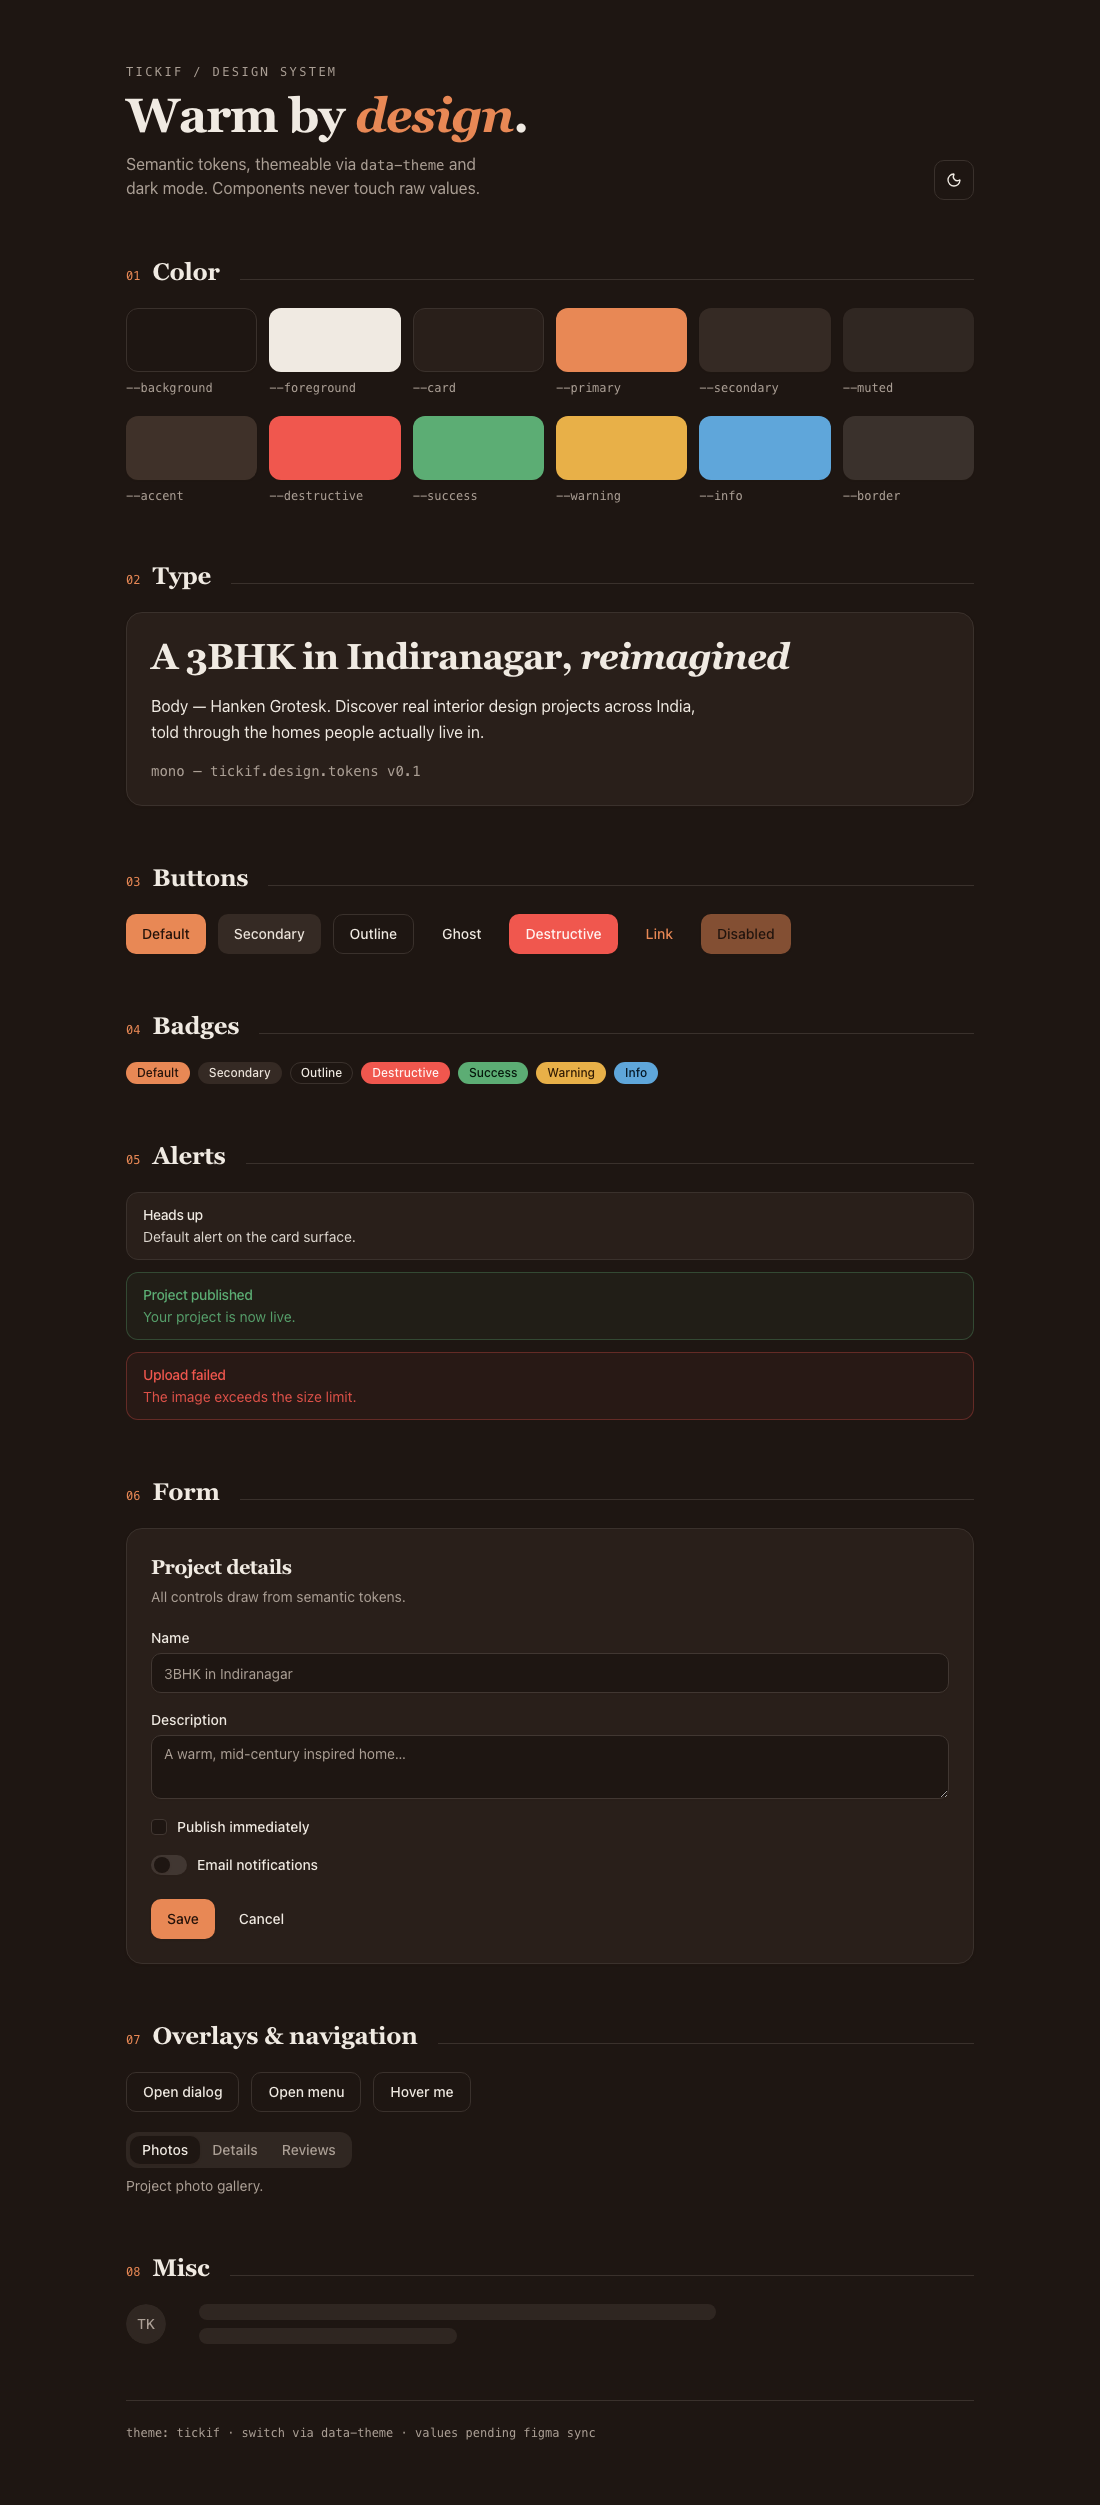
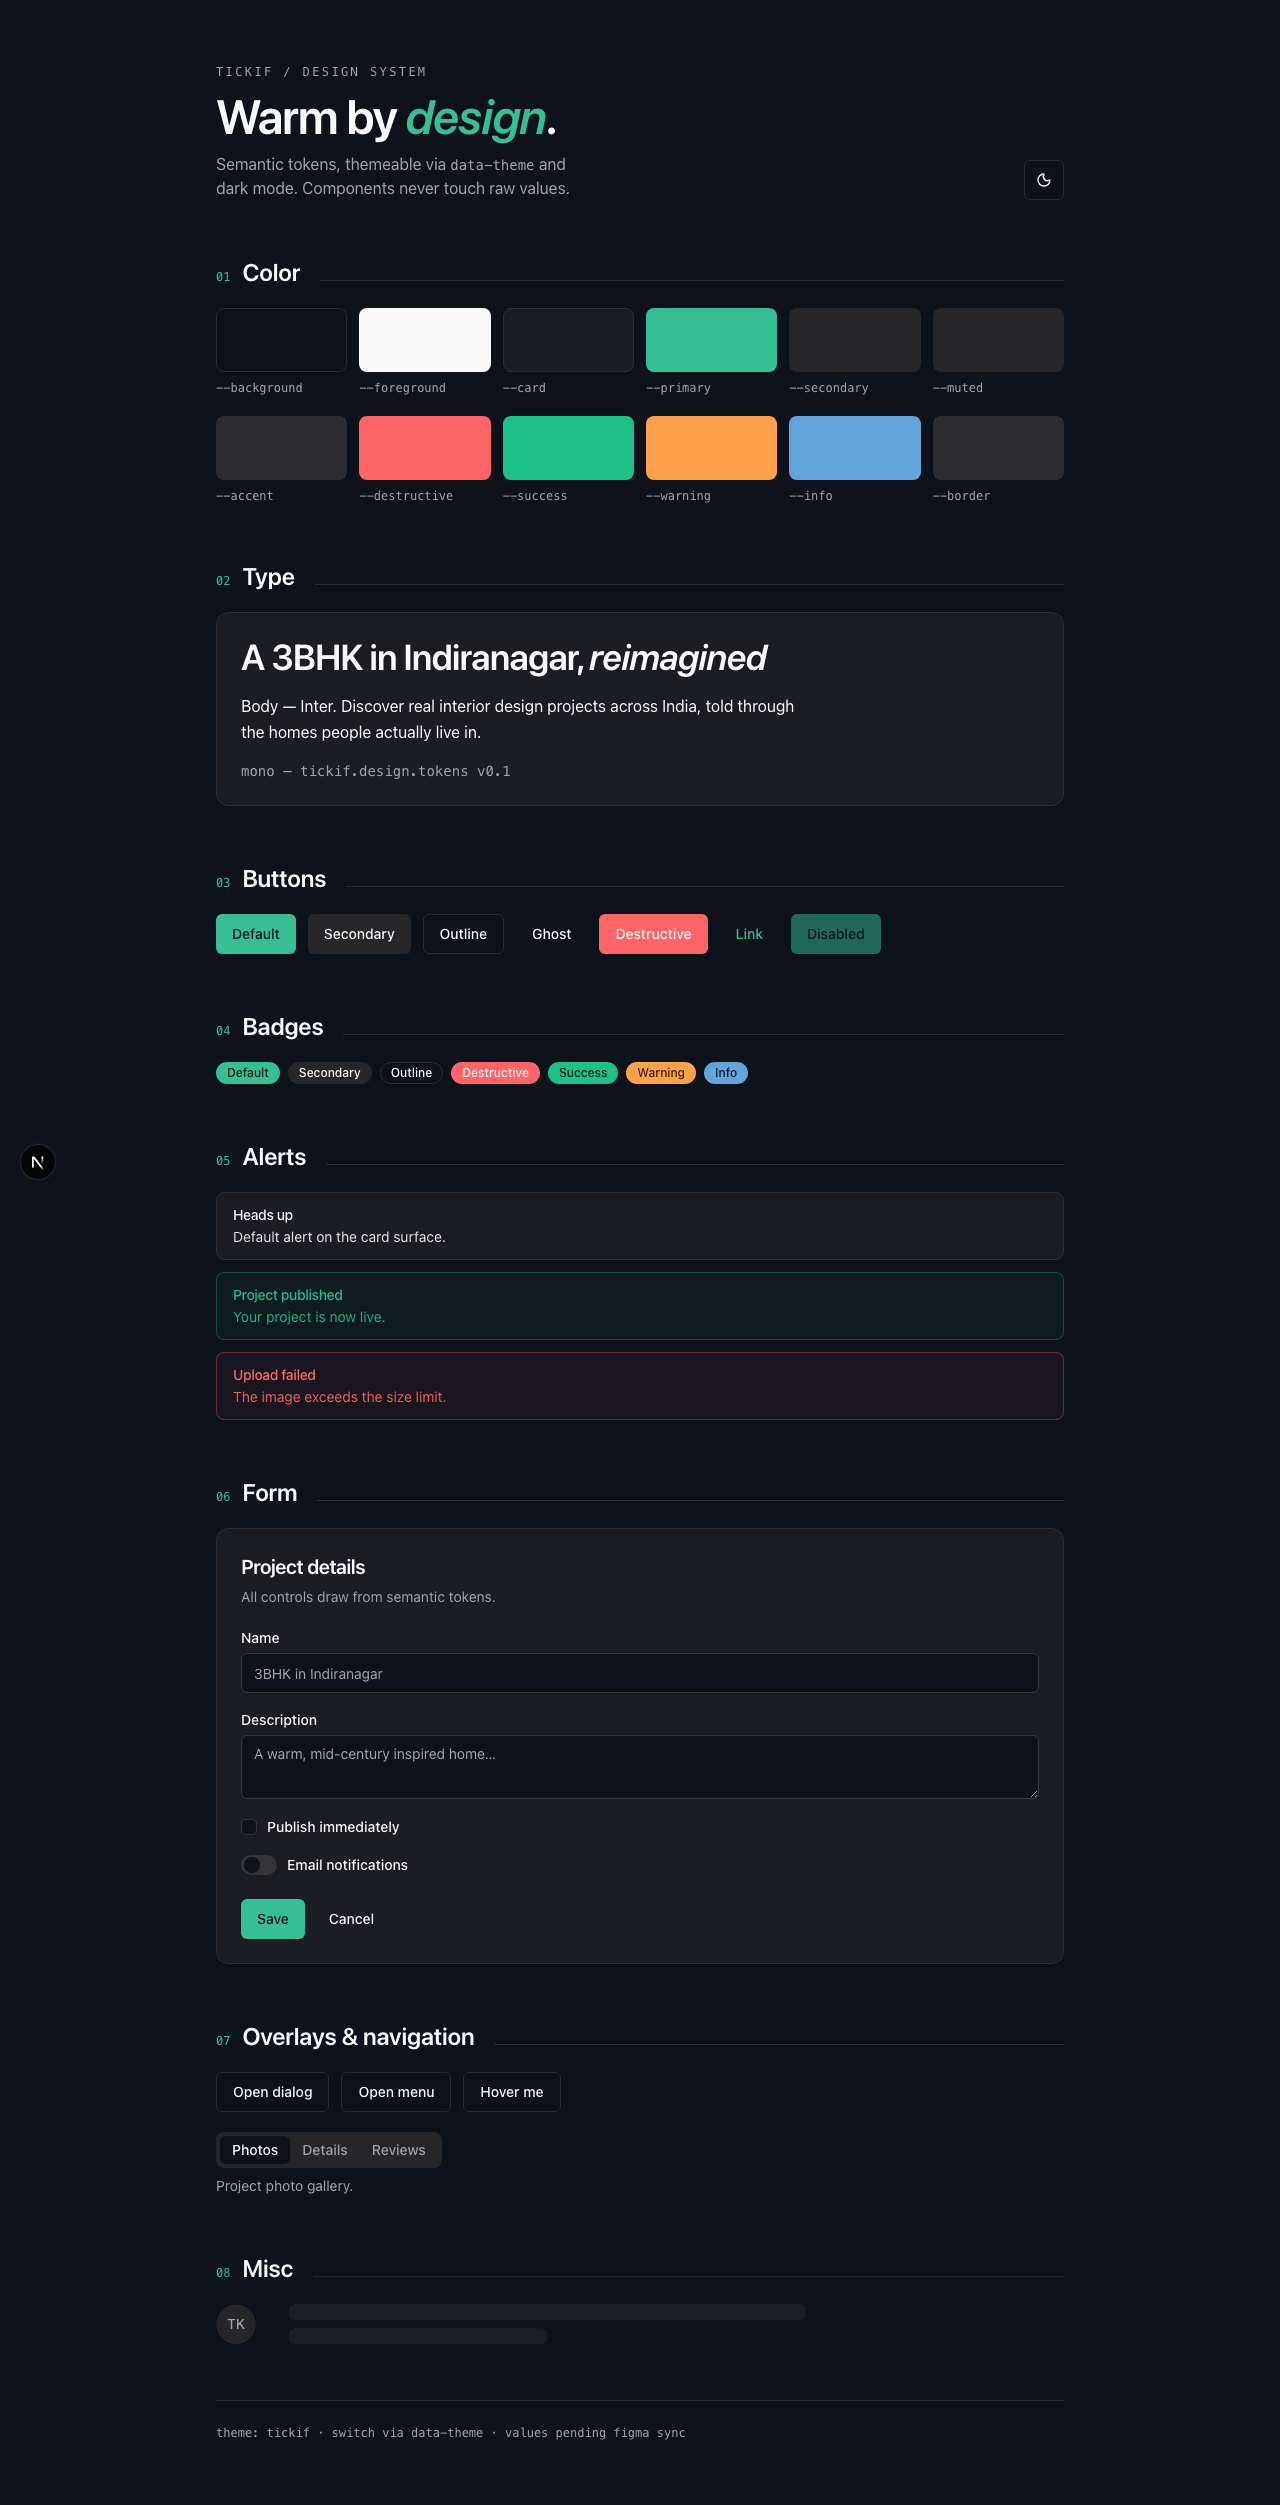
docs: update README + docs for brand theme, fonts, and API port
- Type stack: Inter (body) / JetBrains Mono (code); drop Fraunces/Hanken/IBM Plex
- Note light-by-default theme
- API port 3001 -> 8008 across README and docs (matches #138)
- Regenerate design-system light/dark screenshots for the synced palette

diff --git a/docs/getting-started.md b/docs/getting-started.md
@@ -107,7 +107,7 @@ pnpm dev
 
 Turborepo starts all three apps in parallel:
 
-- **API** → <http://localhost:3001> (`/health`, `/docs`, `/openapi.json`)
+- **API** → <http://localhost:8008> (`/health`, `/docs`, `/openapi.json`)
 - **Web** → <http://localhost:3000>
 - **Worker** → listening on the `media` queue
 
@@ -117,16 +117,16 @@ To run just one app: `pnpm --filter @repo/api dev` (or `@repo/web`, `@repo/worke
 
 ```bash
 # API health
-curl http://localhost:3001/health
+curl http://localhost:8008/health
 
 # List projects (empty until you create some)
-curl http://localhost:3001/api/projects
+curl http://localhost:8008/api/projects
 
 # Prove the queue path: enqueue a demo job, watch the worker log process it
 pnpm --filter @repo/worker enqueue:demo
 ```
 
-Open <http://localhost:3001/docs> for the interactive Scalar API reference.
+Open <http://localhost:8008/docs> for the interactive Scalar API reference.
 
 ### Media smoke-test (mint → PUT → commit → watch)
 
@@ -135,7 +135,7 @@ and a project you own. With those in hand:
 
 ```bash
 # 1. Mint a presigned upload URL (capture imageId, uploadUrl, key)
-curl -s -b cookies.txt http://localhost:3001/api/media/upload-url \
+curl -s -b cookies.txt http://localhost:8008/api/media/upload-url \
   -H 'content-type: application/json' \
   -d '{"projectId":"<PROJECT_ID>","contentType":"image/jpeg","size":2400000}'
 
@@ -146,10 +146,10 @@ curl -s -X PUT "<uploadUrl>" \
   --data-binary @photo.jpg
 
 # 3. Commit — enqueues processing, returns 202 { status: 'processing' }
-curl -s -b cookies.txt -X POST http://localhost:3001/api/media/<imageId>/commit
+curl -s -b cookies.txt -X POST http://localhost:8008/api/media/<imageId>/commit
 
 # 4. Watch the worker log derive + flip to ready, then list the project's images
-curl -s -b cookies.txt http://localhost:3001/api/projects/<PROJECT_ID>/images
+curl -s -b cookies.txt http://localhost:8008/api/projects/<PROJECT_ID>/images
 ```
 
 The worker log shows `media completed job media-<imageId>`; the listed image moves

diff --git a/README.md b/README.md
@@ -40,9 +40,9 @@ packages/
 [`packages/ui`](./packages/ui/README.md) is a themeable, token-based design system
 (Tailwind v4 + Radix, shadcn-style). Components consume **semantic tokens only**
 (`bg-primary`, `font-display`, `rounded-lg`) — theme values (colors, fonts, radius)
-live in `packages/ui/src/styles/themes/` and are switchable via `data-theme`,
-with dark mode via `next-themes`. Type: Fraunces (display) · Hanken Grotesk
-(body) · IBM Plex Mono (code).
+live in `packages/ui/src/styles/themes/` and are switchable via `data-theme`;
+light by default with a dark toggle via `next-themes`. Type: Inter (body) ·
+JetBrains Mono (code).
 
 Live showcase of every token and component: **`/design-system`** in the web app.
 
@@ -82,11 +82,11 @@ pnpm install
 cp .env.example .env          # set BETTER_AUTH_SECRET (openssl rand -base64 32)
 pnpm infra:up                 # Postgres + Redis + MinIO via docker compose
 pnpm db:generate && pnpm db:migrate
-pnpm dev                      # api :3001, web :3000, worker
+pnpm dev                      # api :8008, web :3000, worker
 ```
 
-- API docs (Scalar): http://localhost:3001/docs
-- OpenAPI spec: http://localhost:3001/openapi.json
+- API docs (Scalar): http://localhost:8008/docs
+- OpenAPI spec: http://localhost:8008/openapi.json
 - Web: http://localhost:3000
 
 ### Useful scripts

diff --git a/docs/auth.md b/docs/auth.md
@@ -60,13 +60,13 @@ end-to-end locally:
 PHONE="+919812345678"
 
 # 1. Request an OTP — the code is printed in the API log
-curl -s -X POST http://localhost:3001/api/auth/phone-number/send-otp \
+curl -s -X POST http://localhost:8008/api/auth/phone-number/send-otp \
   -H 'content-type: application/json' -d "{\"phoneNumber\":\"$PHONE\"}"
 
 # 2. Find the code in the running worker output: "[sms] OTP for 91...: 123456"
 
 # 3. Verify — creates the user + session, returns a session token/cookie
-curl -s -X POST http://localhost:3001/api/auth/phone-number/verify \
+curl -s -X POST http://localhost:8008/api/auth/phone-number/verify \
   -H 'content-type: application/json' -d "{\"phoneNumber\":\"$PHONE\",\"code\":\"123456\"}"
 ```
 

diff --git a/docs/README.md b/docs/README.md
@@ -22,12 +22,12 @@ pnpm install
 cp .env.example .env          # then set BETTER_AUTH_SECRET (see getting-started)
 pnpm infra:up                 # Postgres + Redis in Docker
 pnpm db:migrate               # apply schema
-pnpm dev                      # api :3001, web :3000, worker
+pnpm dev                      # api :8008, web :3000, worker
 ```
 
 - Web: <http://localhost:3000>
-- API docs (Scalar): <http://localhost:3001/docs>
-- OpenAPI spec: <http://localhost:3001/openapi.json>
+- API docs (Scalar): <http://localhost:8008/docs>
+- OpenAPI spec: <http://localhost:8008/openapi.json>
 
 ## The one rule to internalize
 

diff --git a/docs/troubleshooting.md b/docs/troubleshooting.md
@@ -117,6 +117,6 @@ pnpm why <pkg> -r          # find duplicate versions of a dependency
 docker compose ps          # are Postgres/Redis healthy?
 docker compose logs -f postgres
 pnpm --filter @repo/api dev    # run a single app to isolate its output
-curl http://localhost:3001/health
+curl http://localhost:8008/health
 pnpm db:studio             # browse the database
 ```
